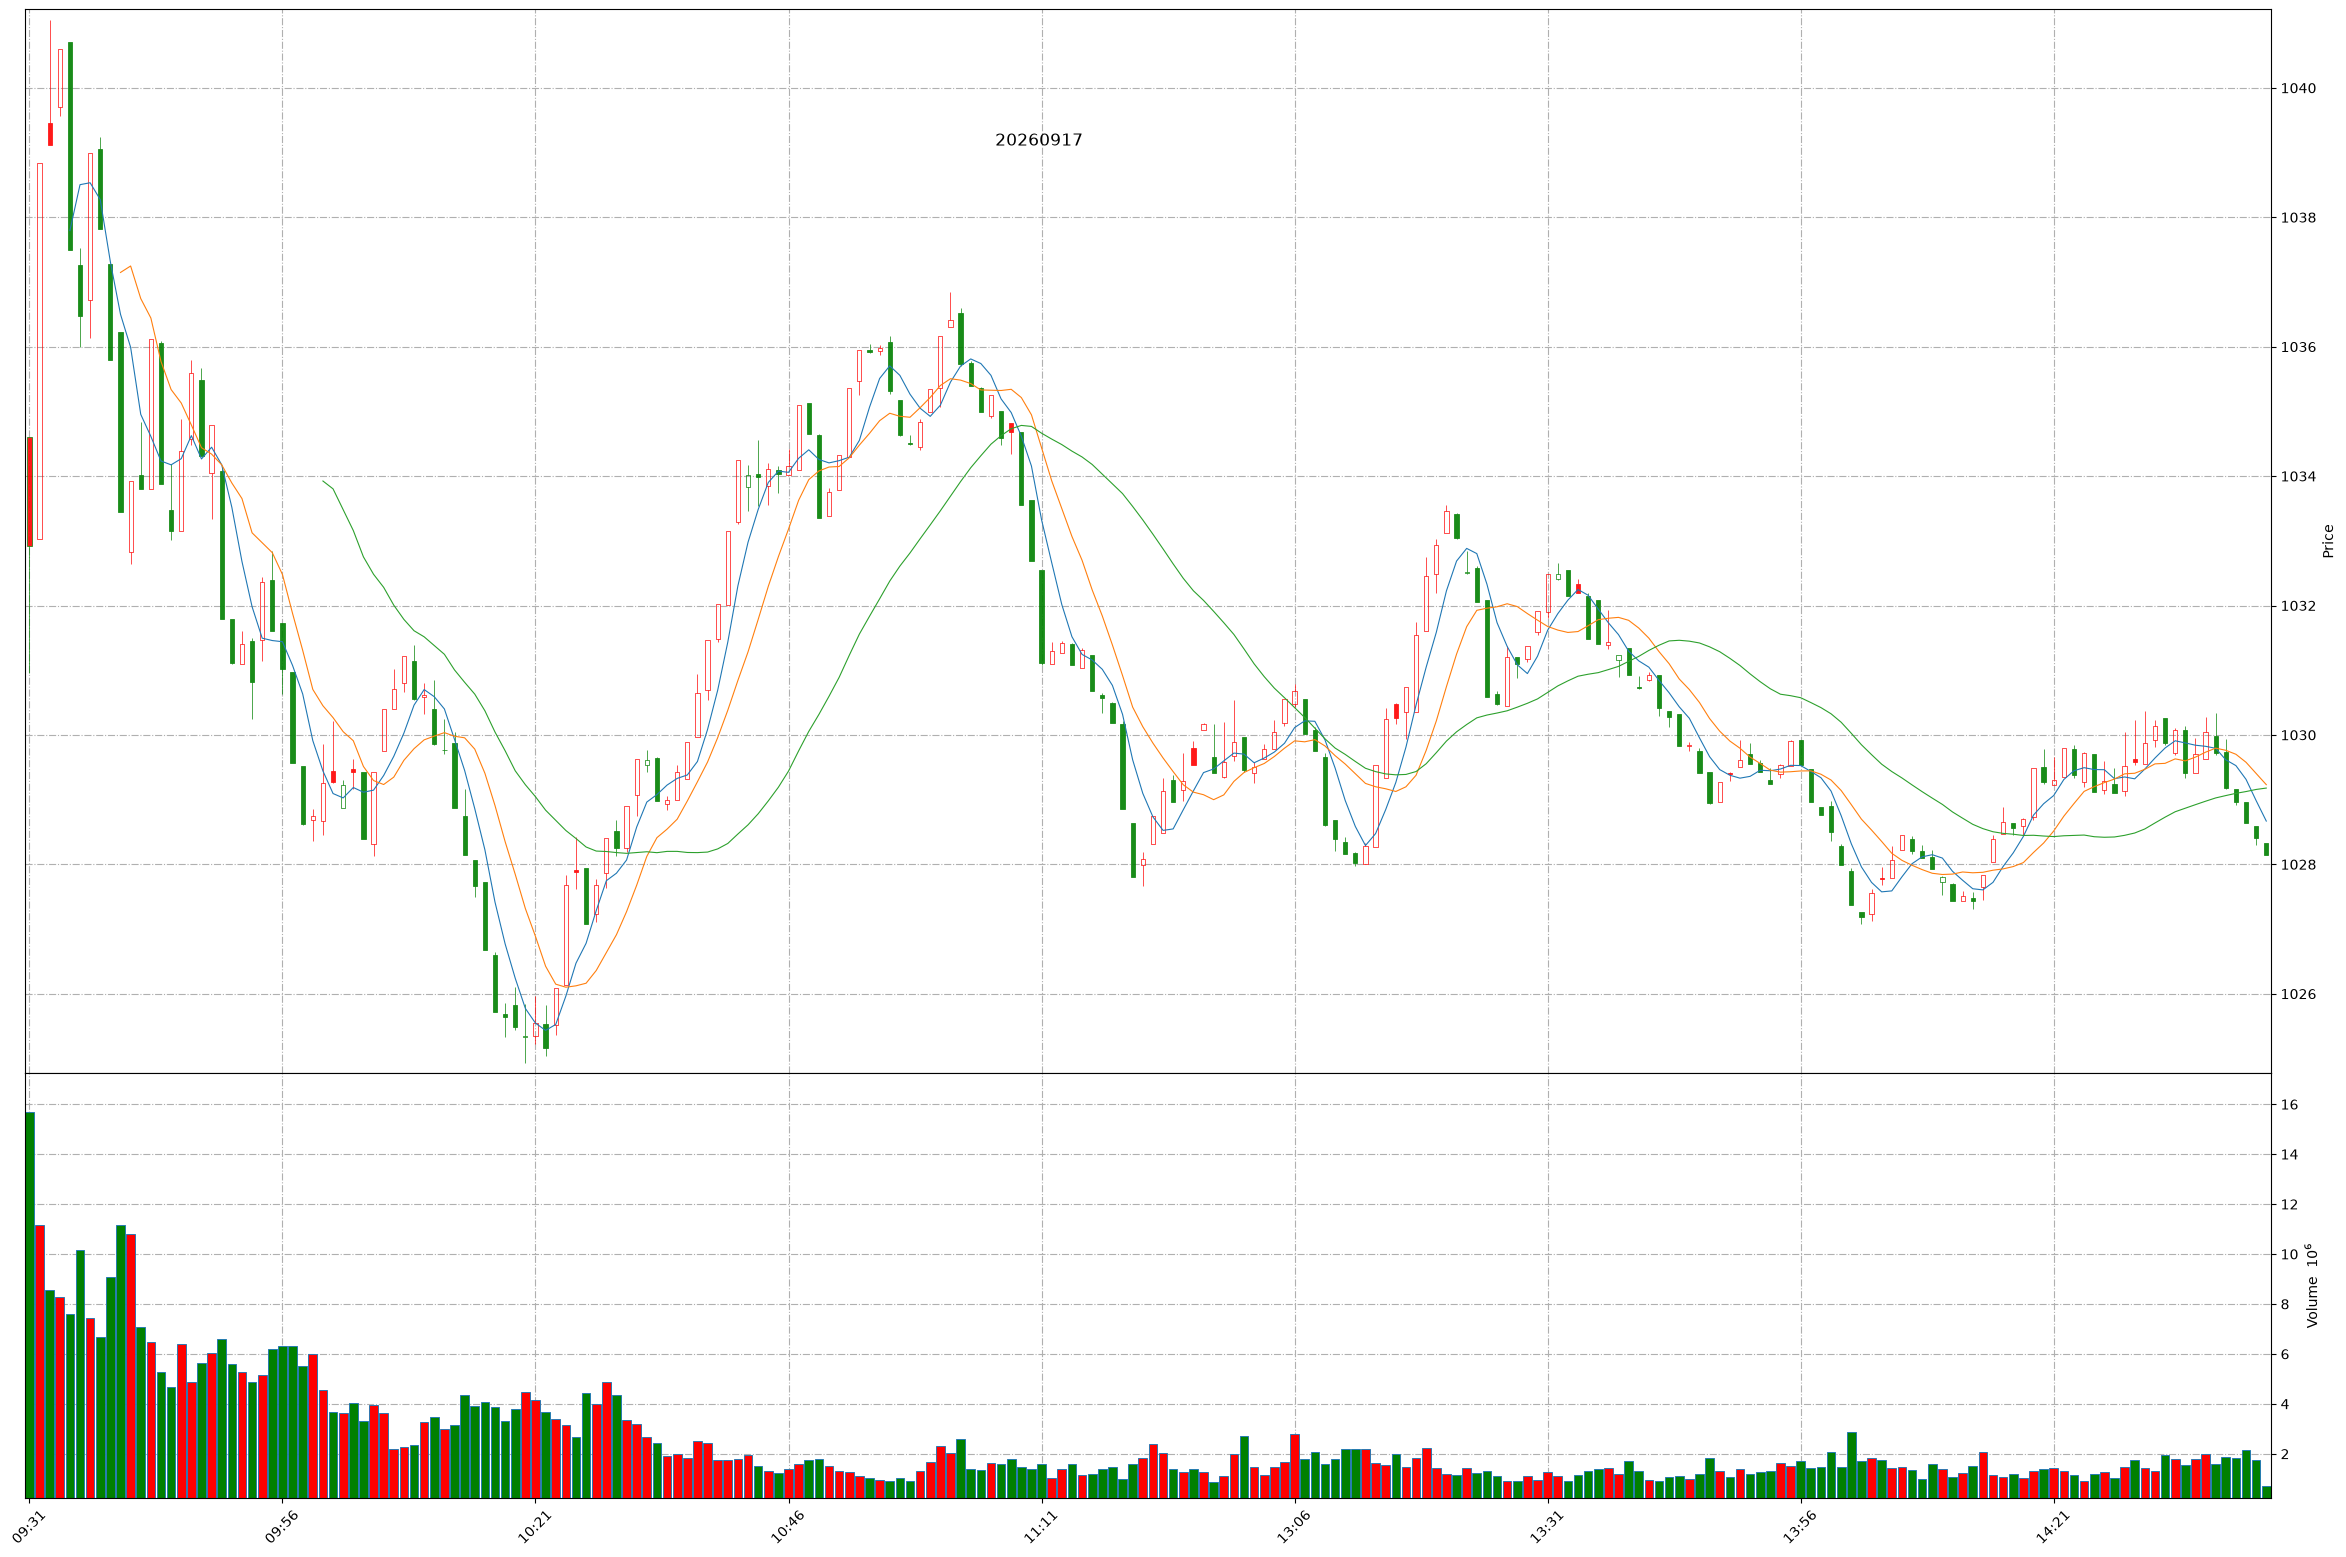
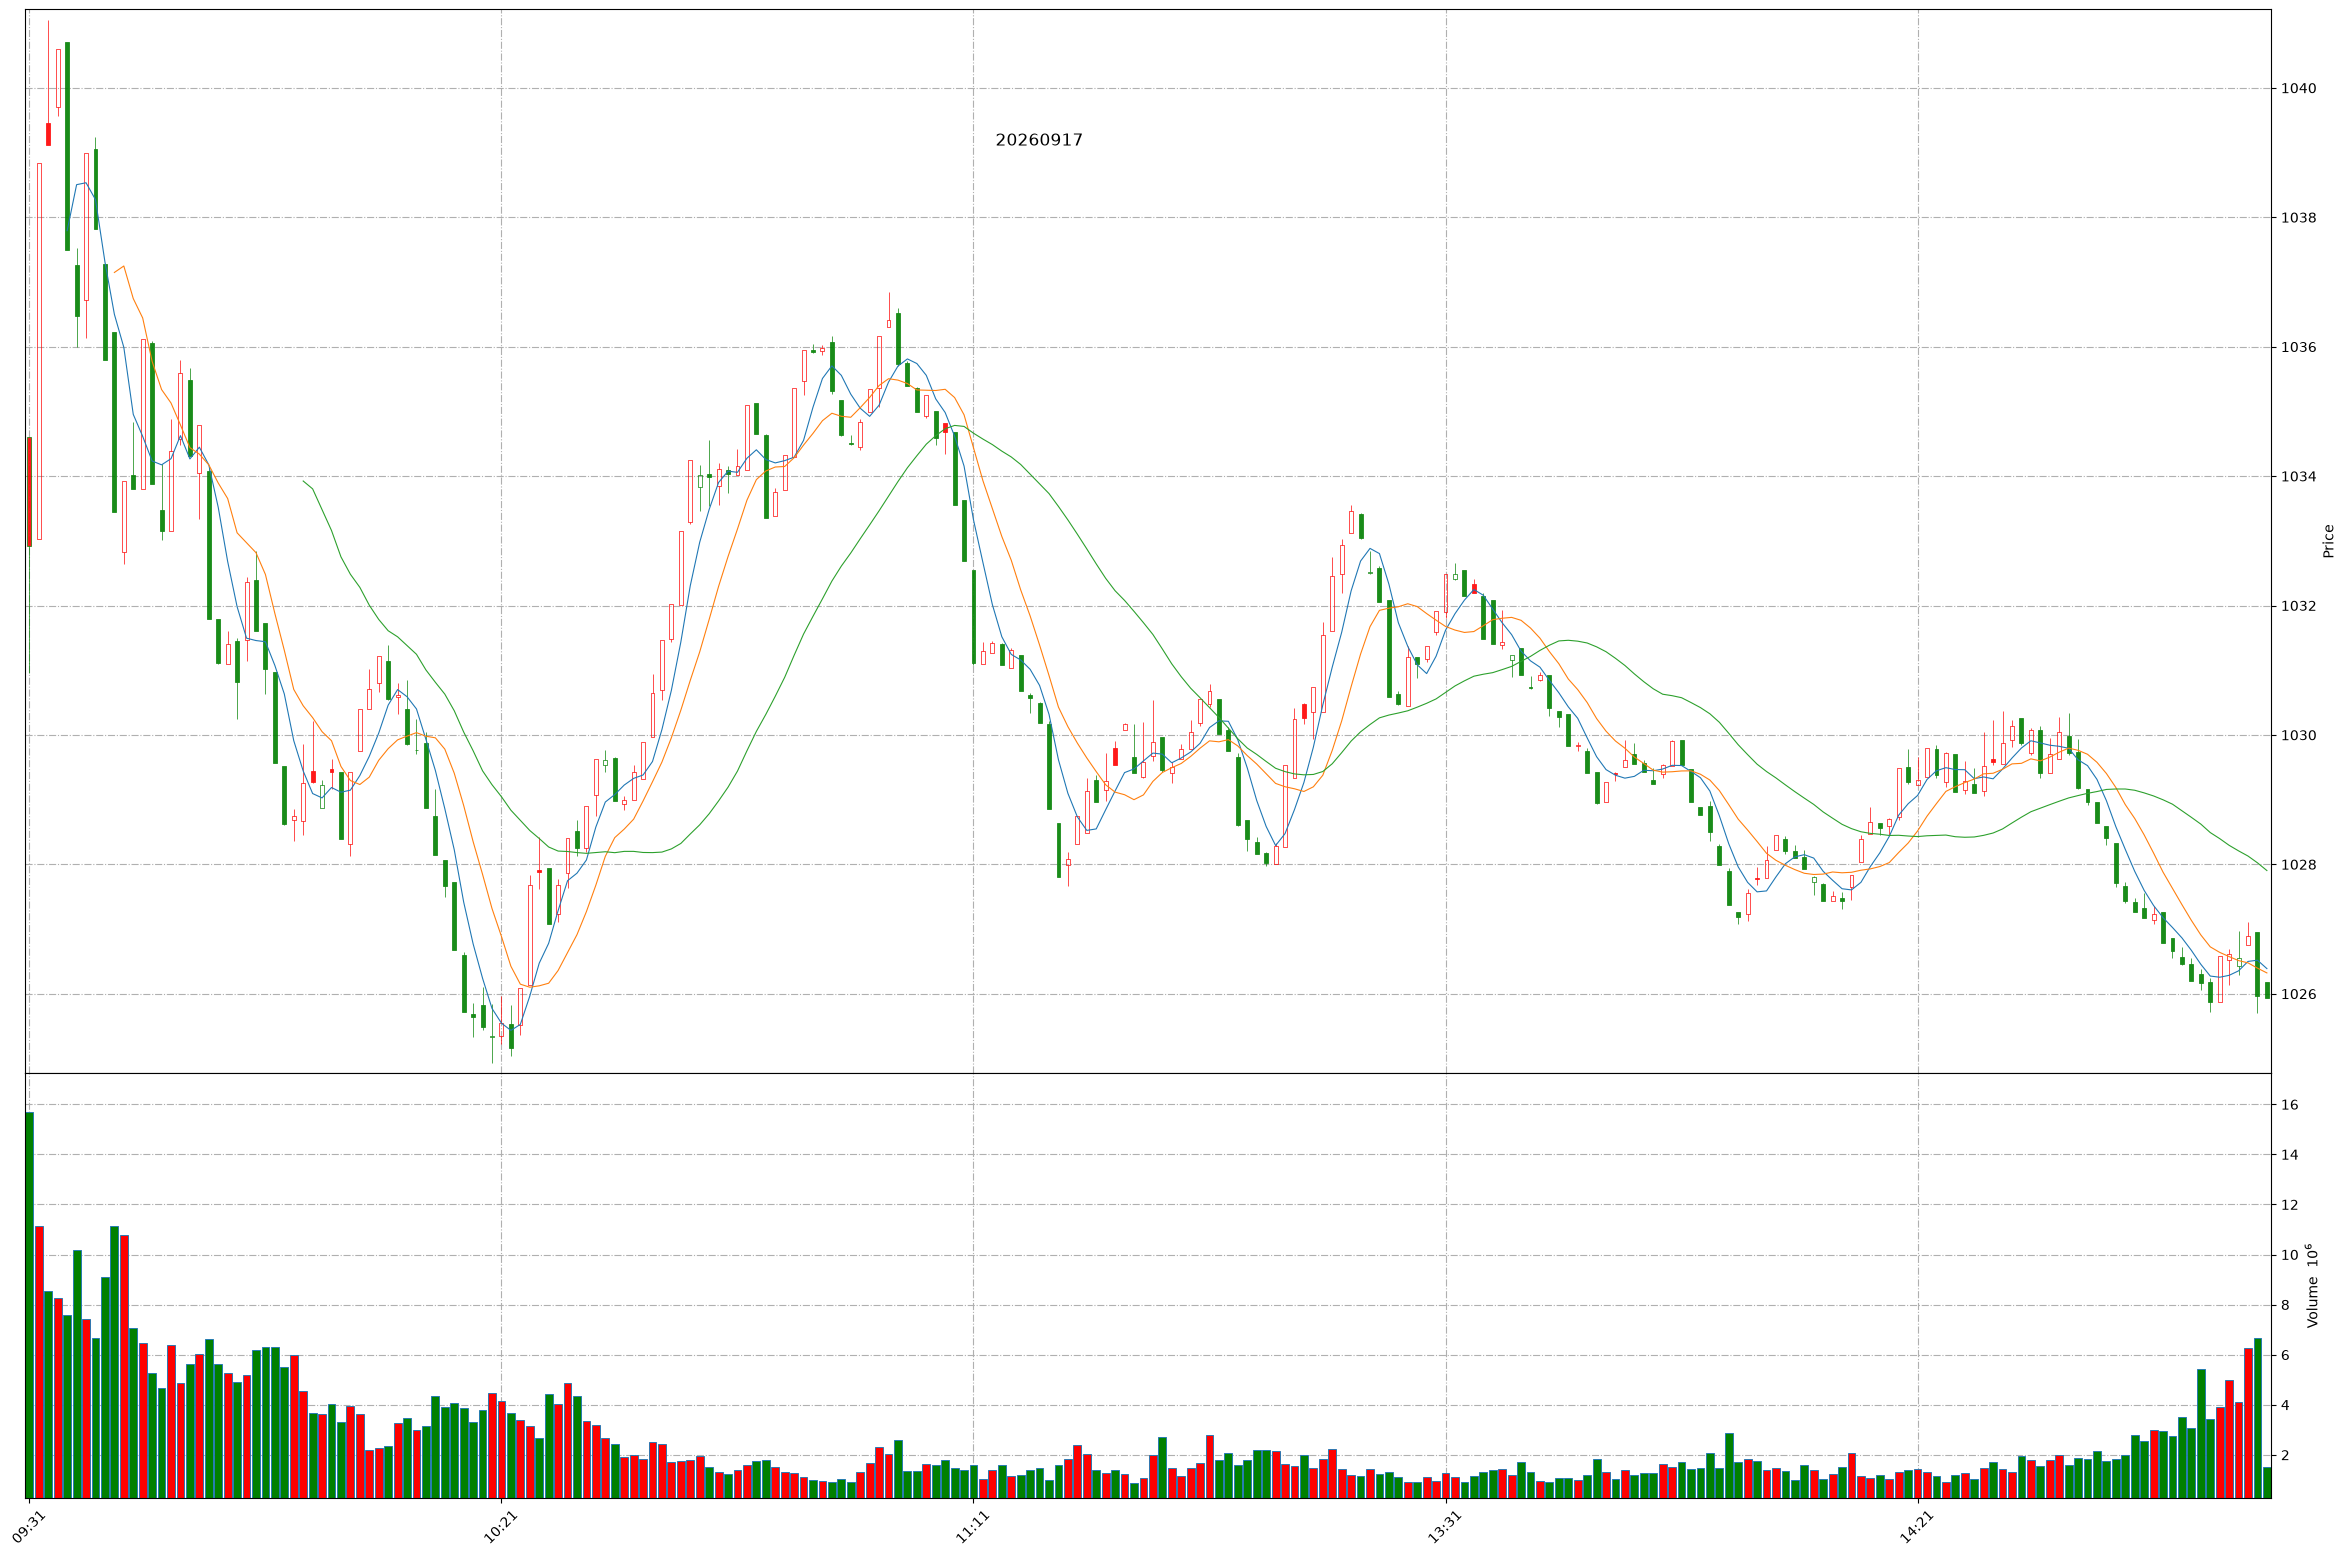
Github action update at 2026-09-17 14:57:18.

diff --git a/README.md b/README.md
@@ -1,11 +1,11 @@
 
 # Daily-A-share-market-quotes 每日 A 股指数（5min 更新）- 20260917
 
-### 上证指数 20260917 14:41
+### 上证指数 20260917 14:57
 ![](./fig/2026/9/20260917-sh000001.png)
 
-### 深证成指 20260917 14:41
+### 深证成指 20260917 14:57
 ![](./fig/2026/9/20260917-sz399001.png)
 
-### 北证50 20260917 14:41
+### 北证50 20260917 14:57
 ![](./fig/2026/9/20260917-bj899050.png)
